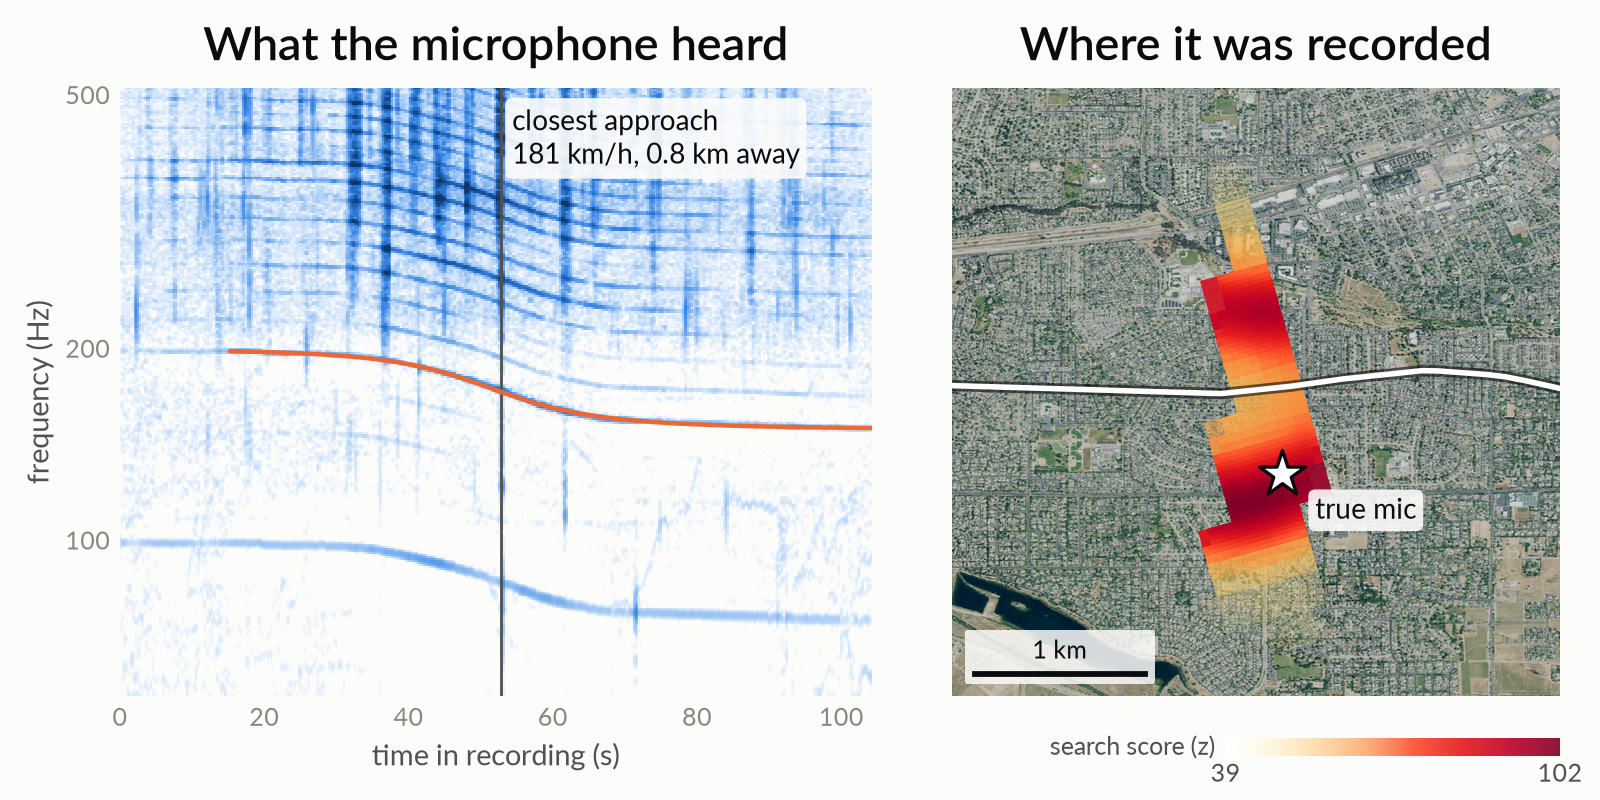
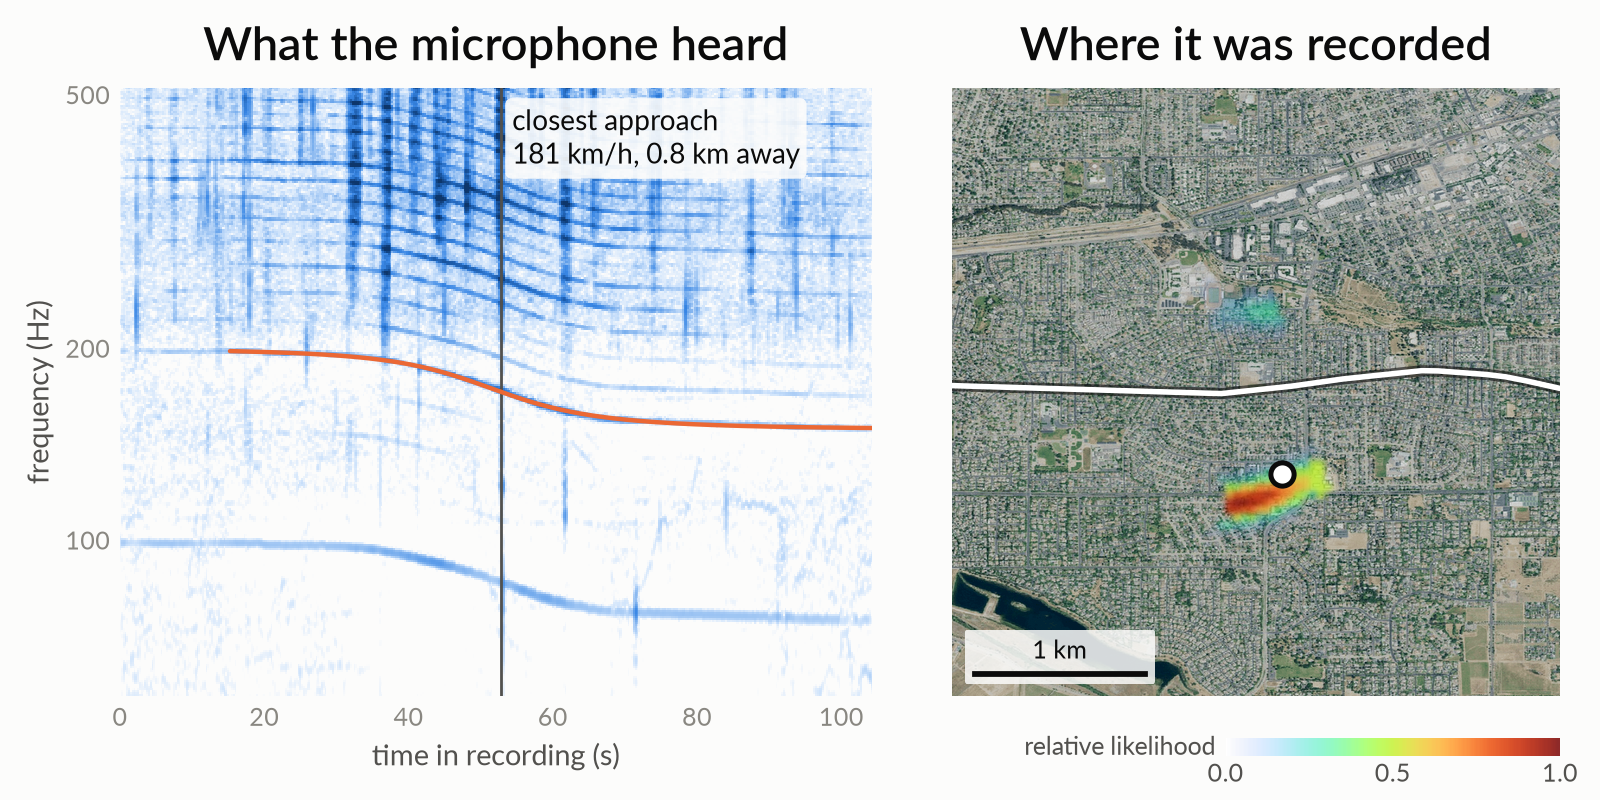
Hero figure: smooth relative-likelihood heatmap (turbo), cleaner location marker
search::likelihood converts scores to relative likelihood exp((s - best)/T), T = 3 z (one unexplained-flight penalty), plus highest-density levels; exposed as _core.likelihood_grid. Figure: no star/label, white dot marker, ~40 m smoothed likelihood, transparent-to-red turbo ramp.

Changed region(s): [[0.75, 0.2188, 0.9062, 0.8125], [0.625, 0.9062, 1.0, 1.0]]

diff --git a/tools/readme_figure.py b/tools/readme_figure.py
@@ -17,8 +17,7 @@ import matplotlib
 matplotlib.use("Agg")
 import matplotlib.pyplot as plt
 import numpy as np
-from matplotlib.collections import PolyCollection
-from matplotlib.colors import LightSource, LinearSegmentedColormap, PowerNorm
+from matplotlib.colors import LightSource, LinearSegmentedColormap
 from matplotlib.ticker import FixedLocator, NullLocator, ScalarFormatter
 from mpl_toolkits.axes_grid1.anchored_artists import AnchoredSizeBar
 
@@ -31,6 +30,7 @@ CACHE = ROOT / "data/_downloads/hero"
 IMAGERY = ("https://basemap.nationalmap.gov/arcgis/rest/services/USGSImageryOnly/MapServer/export"
            "?bbox={w},{s},{e},{n}&bboxSR=4326&imageSR=4326&size={px},{px}&format=png&f=image")
 IMAGERY_PX = 1024
+HEAT_PX = 80
 DEFAULT_CASE = "livermore_N9658K_R24"
 REGION_M = 4_000.0
 MAP_PAD_M = 300.0
@@ -45,12 +45,11 @@ LABEL_BOX = dict(boxstyle="round,pad=0.25", fc=SURFACE, ec="none", alpha=0.9)
 
 
 def heat_cmap() -> LinearSegmentedColormap:
-    """YlOrRd with alpha rising from 0, so weak cells let the photo through and hot spots stay opaque."""
-    base = plt.get_cmap("YlOrRd")
+    """Turbo (blue → cyan → yellow → red) with alpha rising from 0, so the photo shows where likelihood is low."""
     u = np.linspace(0, 1, 256)
-    rgba = base(0.15 + 0.85 * u)
-    rgba[:, 3] = np.clip(u * 1.6, 0, 0.9)
-    return LinearSegmentedColormap.from_list("heat_fade", rgba)
+    rgba = plt.get_cmap("turbo")(0.1 + 0.9 * u)
+    rgba[:, 3] = 0.85 * np.clip(u / 0.5, 0, 1)
+    return LinearSegmentedColormap.from_list("turbo_fade", rgba)
 
 
 def unix(iso: str) -> float:
@@ -142,23 +141,15 @@ def draw_background(ax, extent: tuple[float, float, float, float]) -> str:
     return "hillshade"
 
 
-def cell_poly(c: dict) -> np.ndarray:
-    ix, iy, s = c["cell"]["ix"], c["cell"]["iy"], c["cell"]["step_m"]
-    x = np.array([ix, ix + 1, ix + 1, ix], float) * s
-    y = np.array([iy, iy, iy + 1, iy + 1], float) * s
-    la, lo = _core.albers_inverse(x, y)
-    return np.column_stack([lo, la])
-
-
-def draw_heatmap(ax, ranked: list[dict]):
-    """Coarse cells first, refined children on top, so detail shows where the search zoomed in."""
-    cells = sorted(ranked, key=lambda c: -c["cell"]["step_m"])
-    scores = np.array([c["score"] for c in cells])
-    norm = PowerNorm(gamma=2.0, vmin=scores.min(), vmax=scores.max())
-    pc = PolyCollection([cell_poly(c) for c in cells], array=scores, cmap=heat_cmap(), norm=norm,
-                        edgecolors="none", zorder=1, rasterized=True)
-    ax.add_collection(pc)
-    return pc
+def draw_heatmap(ax, res: dict, extent: tuple[float, float, float, float]):
+    """Relative likelihood from dp-core on a ~40 m lon/lat grid; gaussian display resampling softens the
+    jumps where the search's refinement stopped (finer cells next to coarse ones)."""
+    lon = np.linspace(extent[0], extent[1], HEAT_PX)
+    lat = np.linspace(extent[2], extent[3], HEAT_PX)
+    LON, LAT = np.meshgrid(lon, lat)
+    lik, _ = _core.likelihood_grid(res, LAT, LON, masses=[])
+    return ax.imshow(lik, extent=extent, origin="lower", cmap=heat_cmap(), vmin=0, vmax=1,
+                     interpolation="gaussian", interpolation_stage="rgba", zorder=1)
 
 
 def map_extent(ranked: list[dict], lat: float) -> tuple[float, float, float, float]:
@@ -174,15 +165,13 @@ def draw_map(ax, truth: dict, res: dict, tracks: list[dict]):
     lat, lon = truth["lat"], truth["lon"]
     extent = map_extent(res["ranked"], lat)
     bg = draw_background(ax, extent)
-    pc = draw_heatmap(ax, res["ranked"])
+    pc = draw_heatmap(ax, res, extent)
 
     best = res["ranked"][0]
     tr = next(t for t in tracks if t["id"] == best["track_ids"][0])
     ax.plot(tr["lon"], tr["lat"], color=INK, lw=4.0, alpha=0.6, zorder=3, solid_capstyle="round")
     ax.plot(tr["lon"], tr["lat"], color="white", lw=2.0, zorder=4, solid_capstyle="round")
-    ax.scatter([lon], [lat], marker="*", s=300, color="white", edgecolors=INK, linewidths=1.2, zorder=6)
-    ax.annotate("true mic", (lon, lat), xytext=(12, -16), textcoords="offset points", fontsize=10, color=INK,
-                bbox=LABEL_BOX, zorder=7)
+    ax.scatter([lon], [lat], marker="o", s=70, color="white", edgecolors=INK, linewidths=1.8, zorder=6)
     km = 1e3 / (M_PER_DEG * np.cos(np.radians(lat)))
     bar = AnchoredSizeBar(ax.transData, km, "1 km", "lower left", pad=0.25, borderpad=0.6, sep=3, color=INK,
                           size_vertical=(extent[3] - extent[2]) * 0.005, label_top=True, frameon=True,
@@ -205,11 +194,11 @@ def colorbar_below(fig, ax, pc) -> None:
     box = ax.get_position()
     cax = fig.add_axes((box.x0 + box.width * 0.45, box.y0 - 0.075, box.width * 0.55, 0.022))
     cb = fig.colorbar(pc, cax=cax, orientation="horizontal")
-    lo, hi = pc.get_clim()
-    cb.set_ticks([lo, hi], labels=[f"{lo:.0f}", f"{hi:.0f}"])
+    cb.set_ticks([0, 0.5, 1])
     cb.outline.set_visible(False)
     cax.tick_params(colors=INK2, length=0, labelsize=9, pad=2)
-    cax.text(-0.03, 0.5, "search score (z)", transform=cax.transAxes, ha="right", va="center", fontsize=9, color=INK2)
+    cax.text(-0.03, 0.5, "relative likelihood", transform=cax.transAxes, ha="right", va="center", fontsize=9,
+             color=INK2)
 
 
 def style(ax) -> None:

diff --git a/crates/dp-core/src/search/likelihood.rs b/crates/dp-core/src/search/likelihood.rs
@@ -1,0 +1,97 @@
+//! Turn ranked search scores into a relative likelihood surface and highest-density levels, for maps.
+
+use std::collections::HashMap;
+
+use super::pipeline::Candidate;
+use crate::geo::albers::{self, Cell};
+
+/// z-units per e-fold of likelihood. Scores are matched-filter z over overlapping, clipped frames, and CV
+/// model error moves them by several z, so the textbook exp(z²/2) is wildly over-confident. 3 z is the
+/// scale the search already treats as one unit of evidence (`AssocParams::silence_penalty`).
+pub const DEFAULT_TEMPERATURE: f64 = 3.0;
+
+/// Score of the finest scored cell containing each (lat, lon); NaN where no level scored a cell there.
+pub fn finest_score_at(ranked: &[Candidate], points: &[(f64, f64)]) -> Vec<f64> {
+    let by_cell: HashMap<Cell, f64> = ranked.iter().map(|c| (c.cell, c.score)).collect();
+    let mut steps: Vec<u32> = ranked.iter().map(|c| c.cell.step_m).collect();
+    steps.sort_unstable();
+    steps.dedup();
+    points
+        .iter()
+        .map(|&(lat, lon)| {
+            let xy = albers::forward(lat, lon);
+            steps.iter().find_map(|&s| by_cell.get(&Cell::of(xy, s)).copied()).unwrap_or(f64::NAN)
+        })
+        .collect()
+}
+
+/// exp((s − s_max)/T), so the best cell is 1; NaN scores (unscored) give 0.
+pub fn relative_likelihood(scores: &[f64], temperature: f64) -> Vec<f64> {
+    let top = scores.iter().copied().filter(|s| s.is_finite()).fold(f64::NEG_INFINITY, f64::max);
+    scores.iter().map(|&s| if s.is_finite() { ((s - top) / temperature).exp() } else { 0.0 }).collect()
+}
+
+/// Level L such that samples with likelihood ≥ L hold `mass` of the total (samples are equal-area).
+pub fn hpd_level(likelihood: &[f64], mass: f64) -> f64 {
+    let mut v: Vec<f64> = likelihood.iter().copied().filter(|l| *l > 0.0).collect();
+    v.sort_unstable_by(|a, b| b.total_cmp(a));
+    let total: f64 = v.iter().sum();
+    let mut acc = 0.0;
+    for l in &v {
+        acc += l;
+        if acc >= mass * total {
+            return *l;
+        }
+    }
+    v.last().copied().unwrap_or(0.0)
+}
+
+#[cfg(test)]
+mod tests {
+    use super::*;
+
+    fn cand(cell: Cell, score: f64) -> Candidate {
+        let (lat_deg, lon_deg) = albers::inverse(cell.center());
+        Candidate {
+            cell,
+            lat_deg,
+            lon_deg,
+            score,
+            raw: score,
+            clock: 0.0,
+            track_ids: Vec::new(),
+            events: Vec::new(),
+            unexplained: 0,
+        }
+    }
+
+    #[test]
+    fn finest_cell_wins_and_unscored_is_nan() {
+        let parent = Cell { ix: 10, iy: 20, step_m: 200 };
+        let child = parent.children()[3];
+        let ranked = [cand(parent, 5.0), cand(child, 9.0)];
+        let (clat, clon) = albers::inverse(child.center());
+        let other = parent.children()[0];
+        let (olat, olon) = albers::inverse(other.center());
+        let (flat, flon) = albers::inverse(Cell { ix: 50, iy: 50, step_m: 200 }.center());
+        let s = finest_score_at(&ranked, &[(clat, clon), (olat, olon), (flat, flon)]);
+        assert_eq!(&s[..2], &[9.0, 5.0]);
+        assert!(s[2].is_nan());
+    }
+
+    #[test]
+    fn likelihood_is_relative_to_best() {
+        let l = relative_likelihood(&[10.0, 7.0, f64::NAN], 3.0);
+        assert!((l[0] - 1.0).abs() < 1e-12);
+        assert!((l[1] - (-1.0f64).exp()).abs() < 1e-12);
+        assert_eq!(l[2], 0.0);
+    }
+
+    #[test]
+    fn hpd_level_covers_requested_mass() {
+        let l = [0.5, 0.3, 0.1, 0.1];
+        assert_eq!(hpd_level(&l, 0.5), 0.5);
+        assert_eq!(hpd_level(&l, 0.8), 0.3);
+        assert_eq!(hpd_level(&l, 0.95), 0.1);
+    }
+}

diff --git a/crates/dp-py/src/search.rs b/crates/dp-py/src/search.rs
@@ -5,10 +5,12 @@ use dp_core::audio::Audio;
 use dp_core::config::Config;
 use dp_core::dem::{Dem, geoid_undulation};
 use dp_core::events::Event;
-use dp_core::search::{EventSpec, Region, locate};
-use numpy::PyReadonlyArray1;
+use dp_core::search::{EventSpec, Region, SearchResult, likelihood, locate};
+use numpy::ndarray::{ArrayD, IxDyn};
+use numpy::{IntoPyArray, PyArrayDyn, PyReadonlyArray1, PyReadonlyArrayDyn, PyUntypedArrayMethods};
+use pyo3::exceptions::PyValueError;
 use pyo3::prelude::*;
-use pyo3::types::PyList;
+use pyo3::types::{PyDict, PyList};
 
 /// Coarse-to-fine search for one recording. `events` are `discover` dicts; tracks come from the ADS-B
 /// `store` for [t0, t1] UNIX s in `bbox` (lat_min, lon_min, lat_max, lon_max). `region` = (lat, lon, radius_m);
@@ -51,11 +53,41 @@ fn search<'py>(
     json.call_method1("loads", (out,))
 }
 
+/// Relative likelihood exp((s − s_max)/T) at each (lat, lon), from the finest scored cell of a `search`
+/// result there (0 where unscored), plus the likelihood level enclosing each of `masses` (highest-density
+/// regions over the given equal-area samples). See dp_core::search::likelihood for the temperature.
+#[pyfunction]
+#[pyo3(signature = (result, lat, lon, temperature=likelihood::DEFAULT_TEMPERATURE, masses=vec![0.5, 0.9]))]
+fn likelihood_grid<'py>(
+    py: Python<'py>,
+    result: &Bound<'py, PyDict>,
+    lat: PyReadonlyArrayDyn<'py, f64>,
+    lon: PyReadonlyArrayDyn<'py, f64>,
+    temperature: f64,
+    masses: Vec<f64>,
+) -> PyResult<(Bound<'py, PyArrayDyn<f64>>, Vec<f64>)> {
+    if lat.shape() != lon.shape() {
+        return Err(PyValueError::new_err("lat and lon must have the same shape"));
+    }
+    let s: String = py.import("json")?.call_method1("dumps", (result,))?.extract()?;
+    let res = SearchResult::from_json(&s)?;
+    let shape = lat.shape().to_vec();
+    let pts: Vec<(f64, f64)> = lat.as_array().iter().zip(lon.as_array().iter()).map(|(a, b)| (*a, *b)).collect();
+    let (lik, levels) = py.detach(|| {
+        let lik = likelihood::relative_likelihood(&likelihood::finest_score_at(&res.ranked, &pts), temperature);
+        let levels = masses.iter().map(|&m| likelihood::hpd_level(&lik, m)).collect::<Vec<_>>();
+        (lik, levels)
+    });
+    let arr = ArrayD::from_shape_vec(IxDyn(&shape), lik).map_err(|e| PyValueError::new_err(e.to_string()))?;
+    Ok((arr.into_pyarray(py), levels))
+}
+
 fn events_from_py(json: &Bound<'_, PyModule>, v: &Bound<'_, PyList>) -> PyResult<Vec<Event>> {
     let s: String = json.call_method1("dumps", (v,))?.extract()?;
     Ok(dp_core::events::events_from_json(&s)?)
 }
 
 pub fn register(m: &Bound<'_, PyModule>) -> PyResult<()> {
-    m.add_function(wrap_pyfunction!(search, m)?)
+    m.add_function(wrap_pyfunction!(search, m)?)?;
+    m.add_function(wrap_pyfunction!(likelihood_grid, m)?)
 }

diff --git a/crates/dp-core/src/search/locate.rs b/crates/dp-core/src/search/locate.rs
@@ -30,6 +30,9 @@ impl SearchResult {
     pub fn to_json(&self) -> anyhow::Result<String> {
         Ok(serde_json::to_string(self)?)
     }
+    pub fn from_json(s: &str) -> anyhow::Result<Self> {
+        Ok(serde_json::from_str(s)?)
+    }
 }
 
 /// `p.assoc.t_start_prior` and `p.flat_h_ell_m` must already be set by the caller.

diff --git a/crates/dp-core/src/search/mod.rs b/crates/dp-core/src/search/mod.rs
@@ -3,6 +3,7 @@
 
 pub mod catalog;
 pub mod hypothesis;
+pub mod likelihood;
 pub mod locate;
 pub mod pipeline;
 pub mod score;
